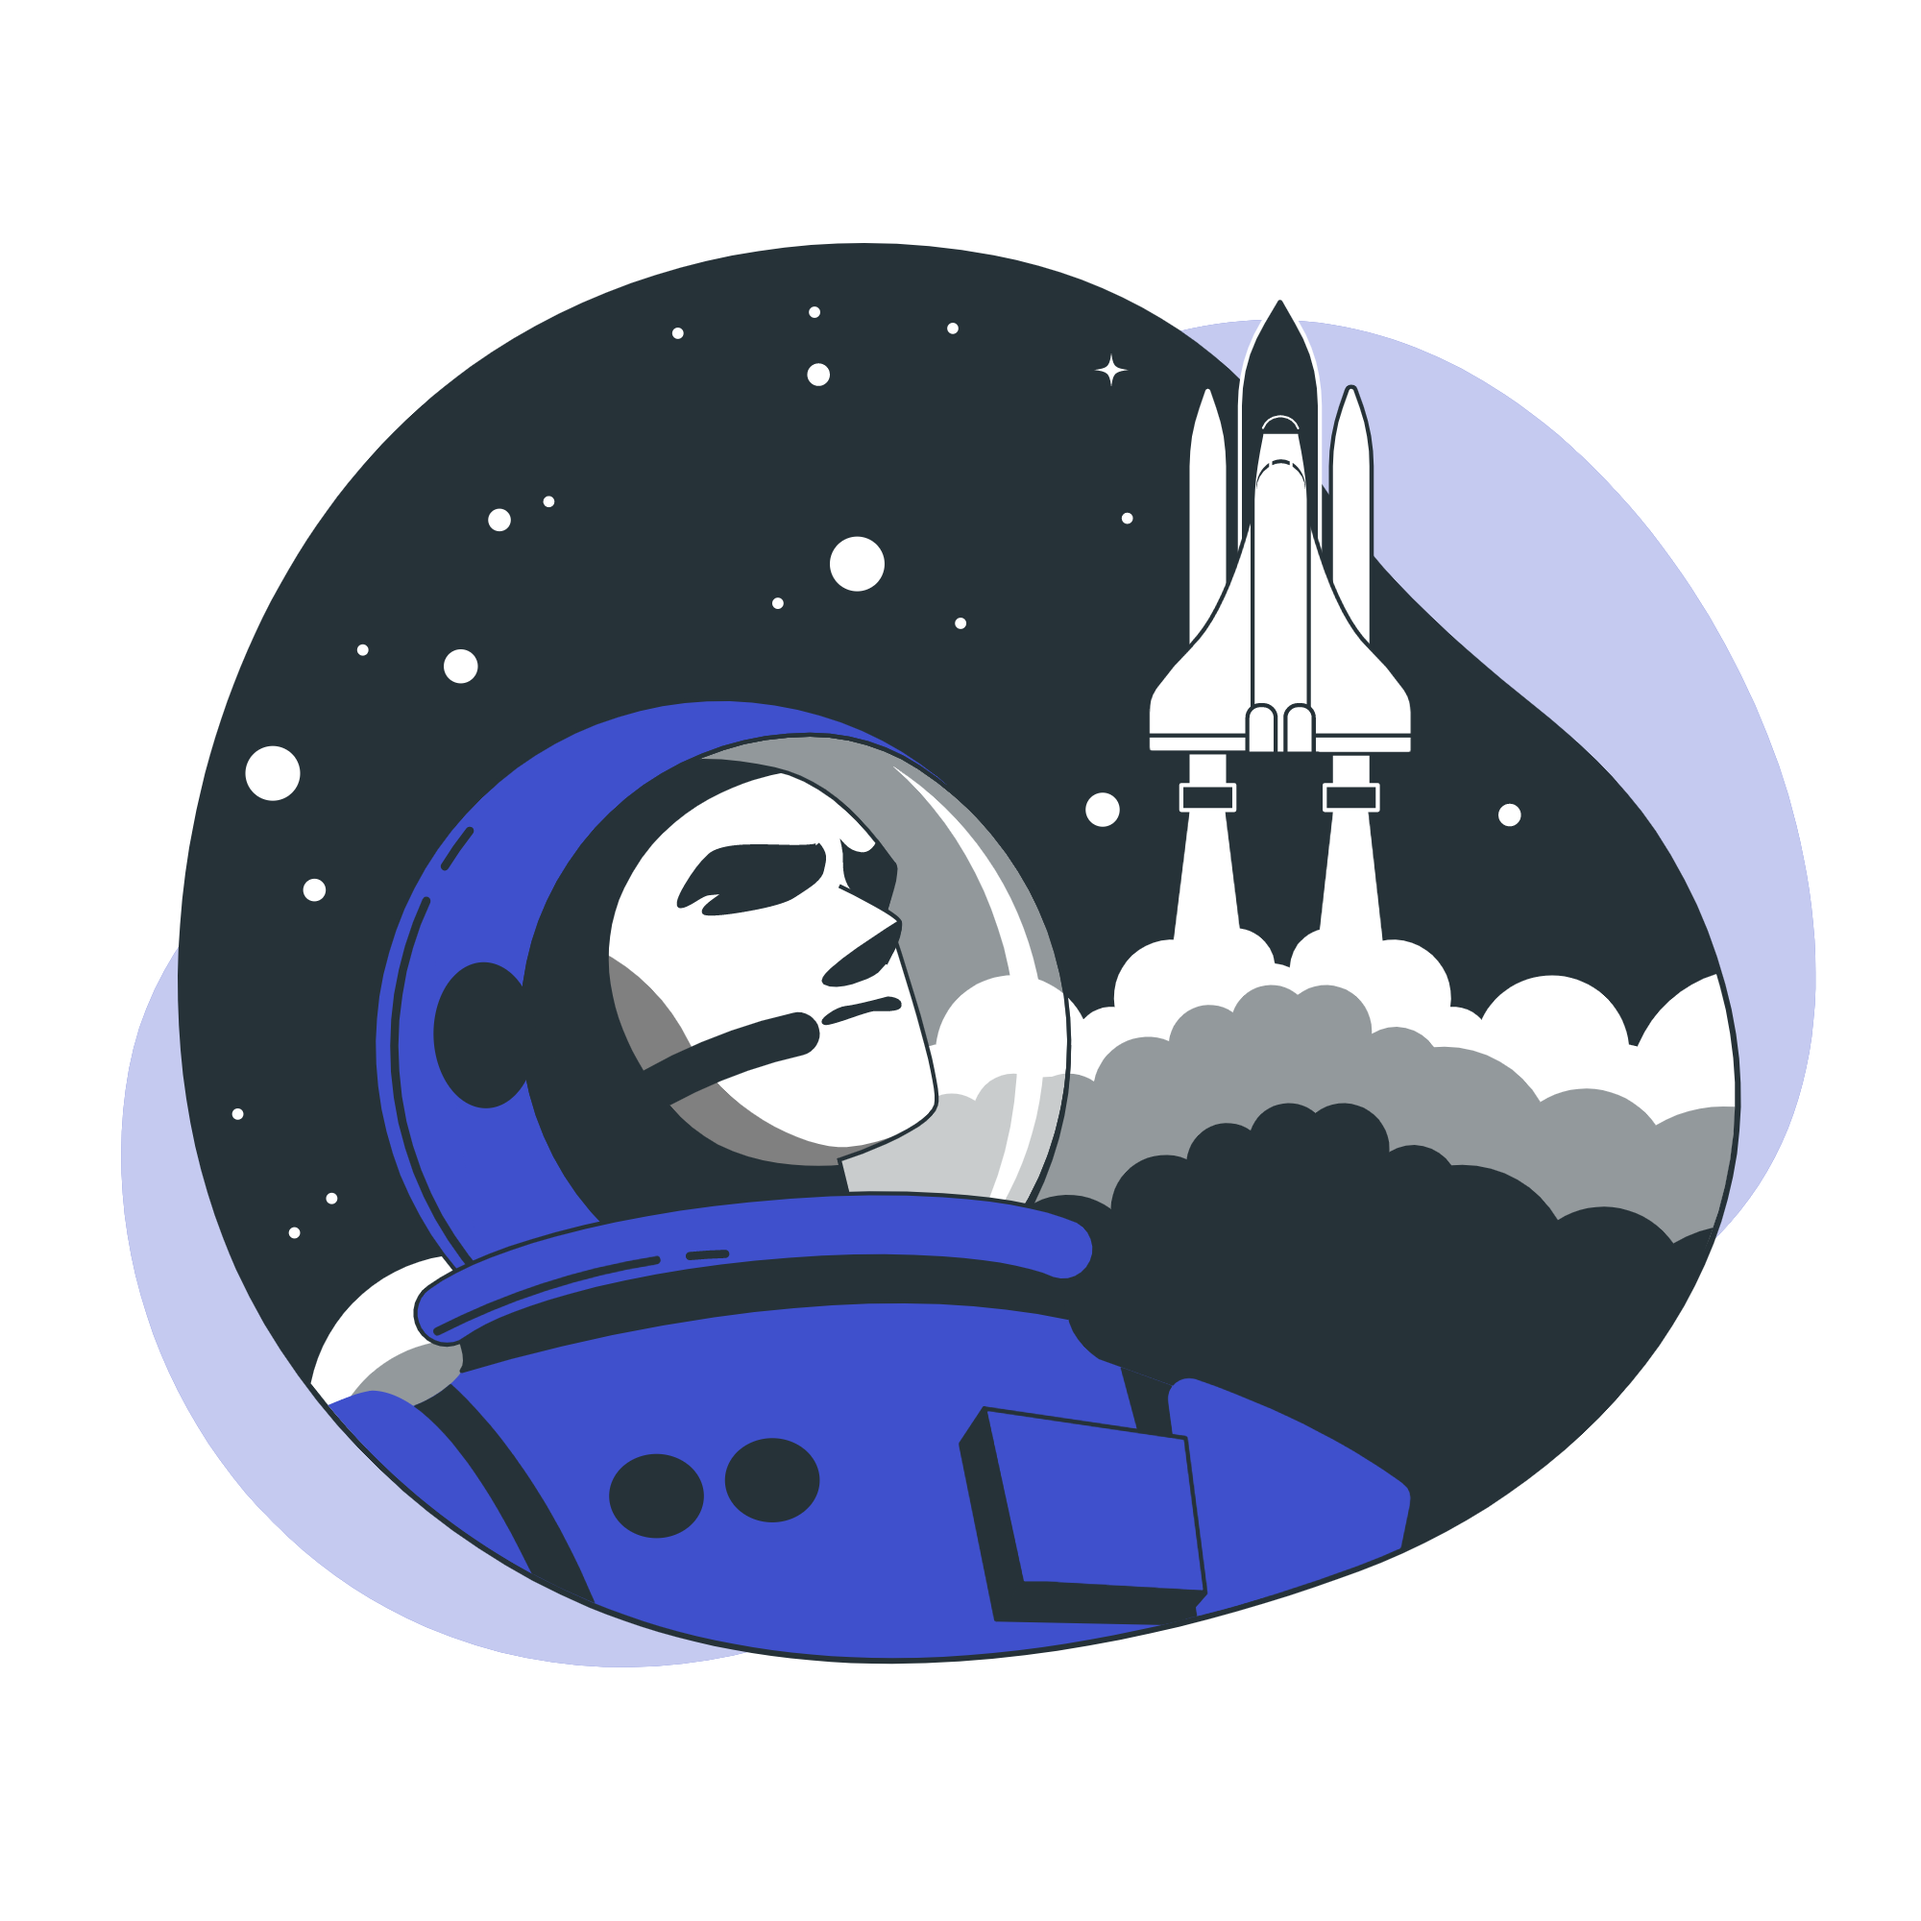
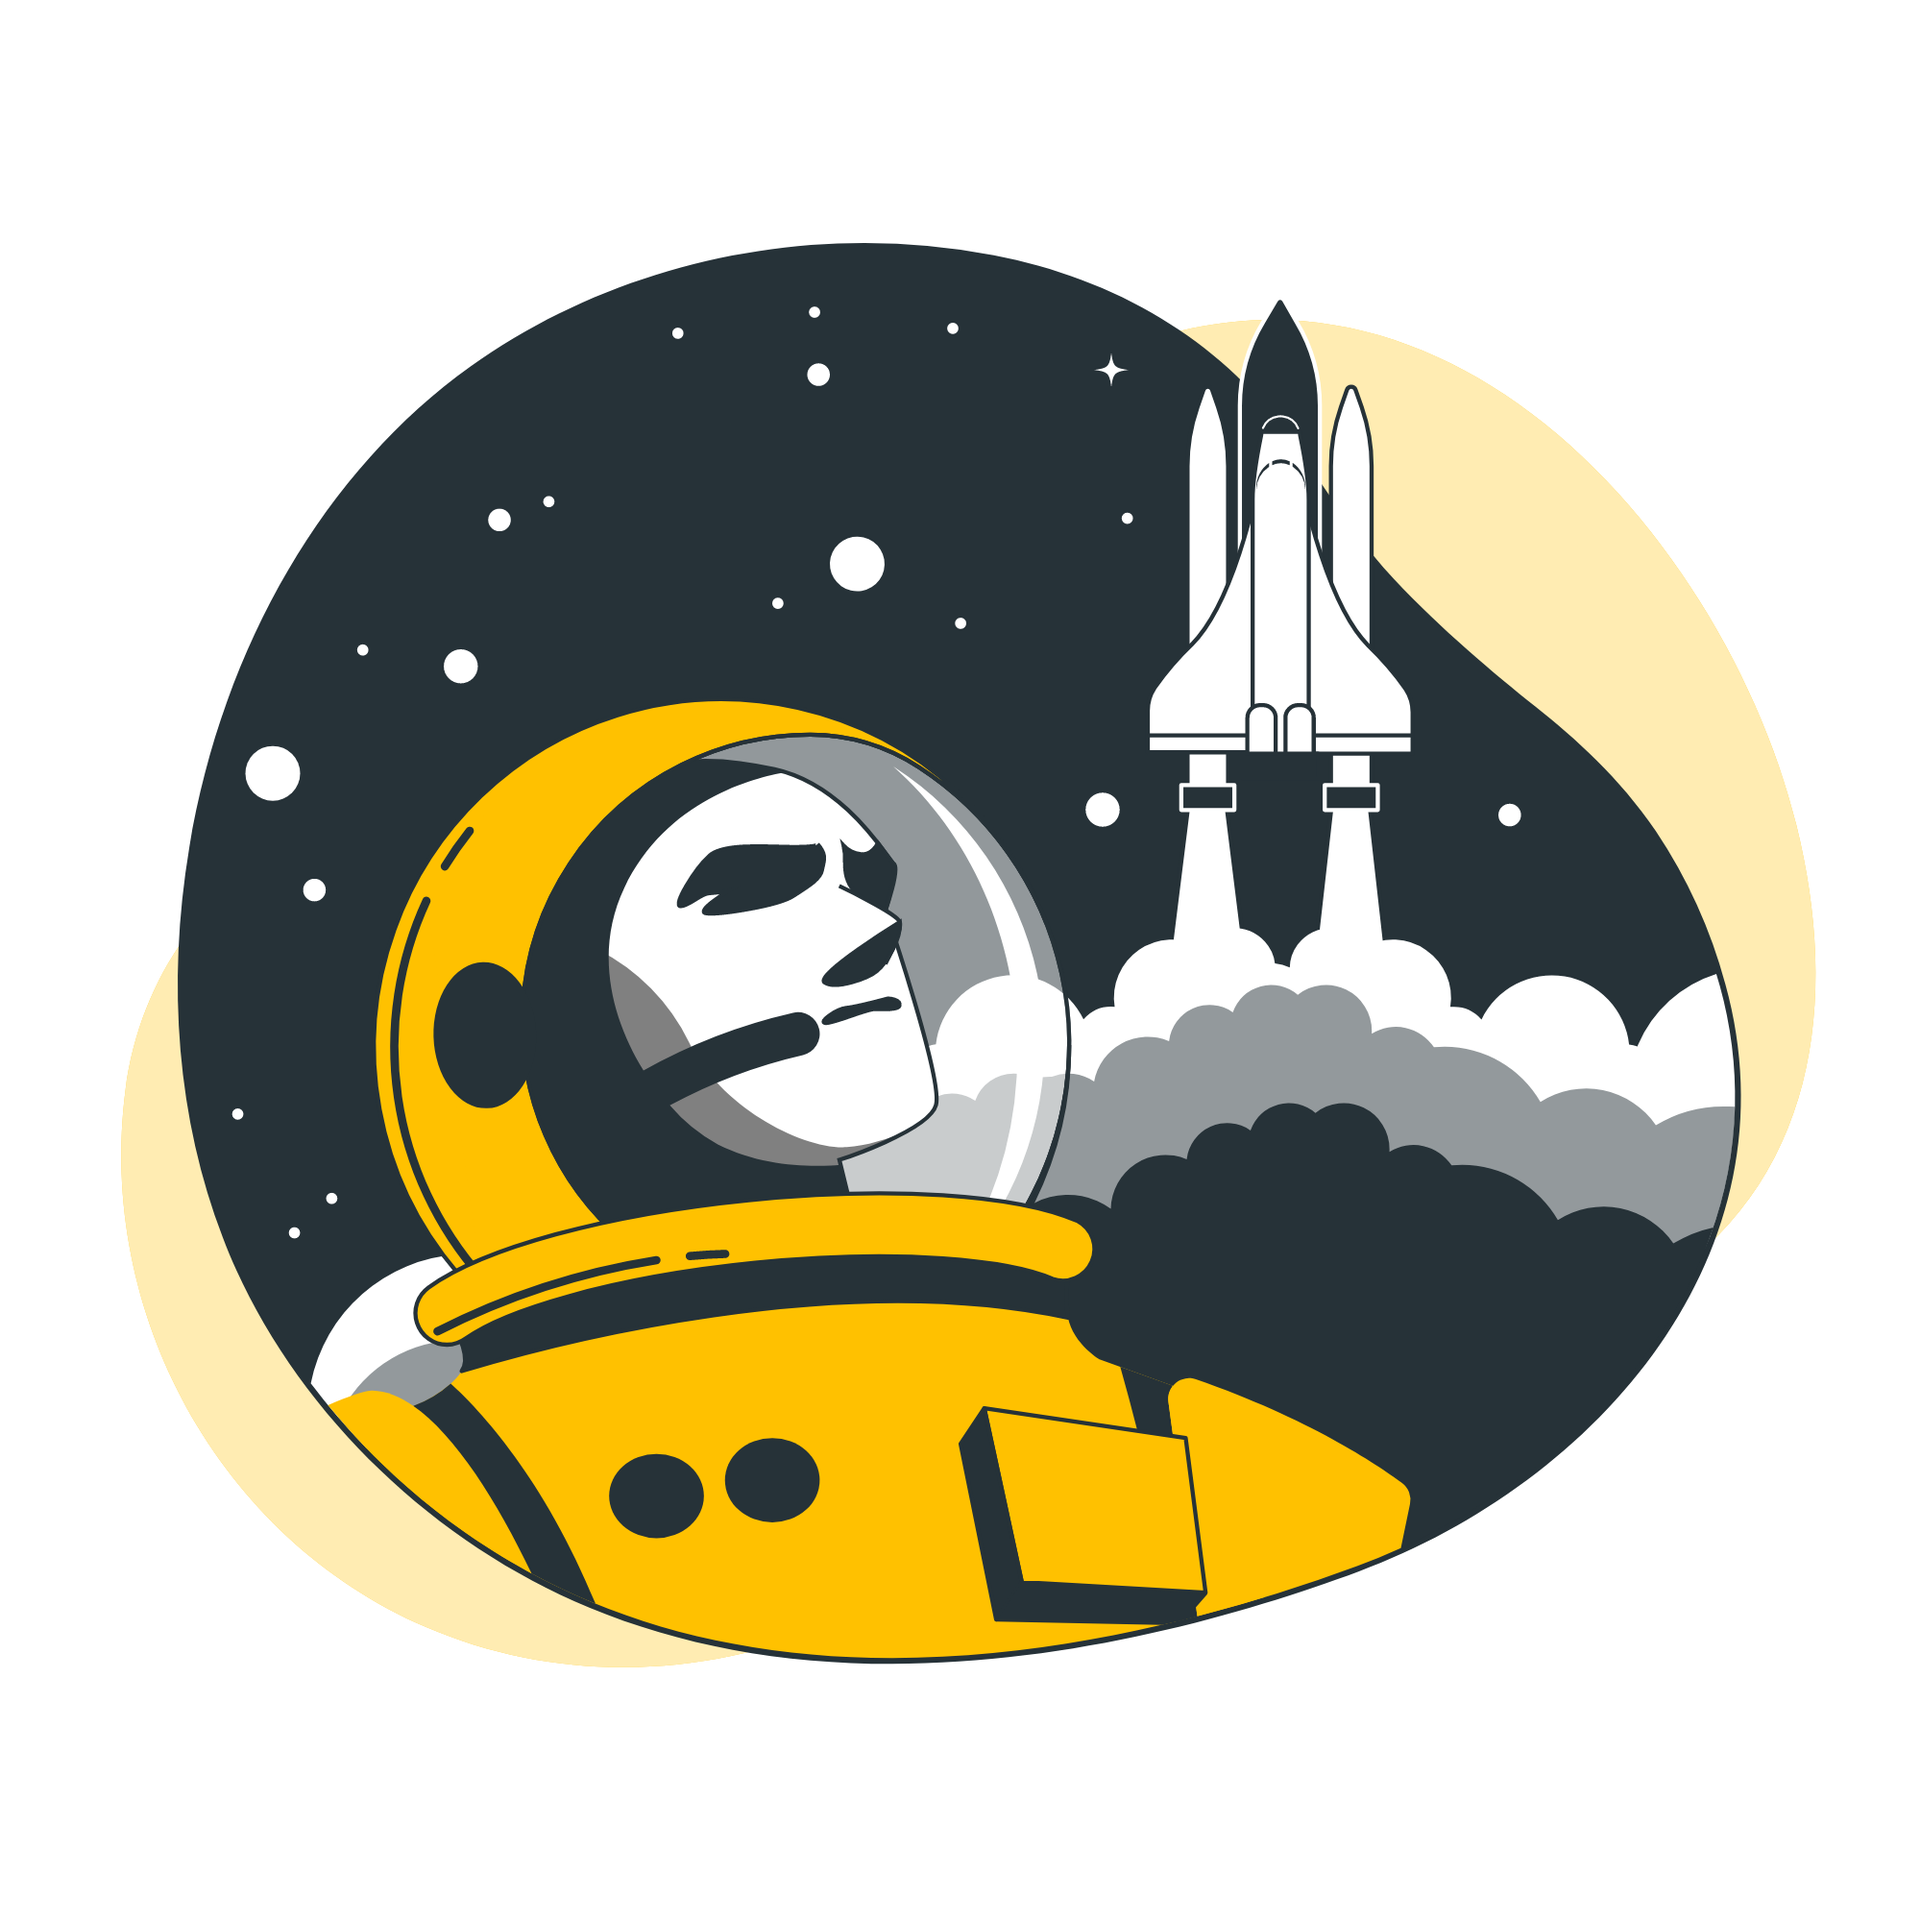
.

Changed region(s): [[0.062, 0.341, 0.744, 0.868], [0.682, 0.155, 0.961, 0.651], [0.62, 0.155, 0.651, 0.186]]

diff --git a/Portfolio/assets/css/style.css b/Portfolio/assets/css/style.css
@@ -11,10 +11,9 @@ html{
 }
 
 nav{
-    background-color: #3F50CC;
+    background-color: #000;
     width: 100%;
     position: fixed;
-    
 }
 
 nav ul{
@@ -29,10 +28,10 @@ nav ul li{
 
 nav ul li a{
     text-decoration: none;
-    color: #fff;
+    color: #FFC100;
 }
 
-header{
+header#inicio{
     display: flex;
     justify-content: center;
     align-items: center;
@@ -47,7 +46,7 @@ header div#img{
 header div p{
     font-size: 2vw;
     font-weight: 700;
-    color:#3F50CC;
+    color:#000;
 }
 
 header div span{
@@ -65,20 +64,21 @@ section#sobre-mim{
     justify-content: center;
     align-items: center;
     padding: 4rem;
-    background-color: #3F50CC;
+    background-color: #ffe084;
 }
 
 section#sobre-mim div img{
-    width: 60%;
+    width: 70%;
     border-radius: 50%;
     display: block;
     margin: auto;
 }
 
 section#sobre-mim div p{
-    font-size: 1.1vw;
+    font-size: 1.2vw;
     text-align: justify;
-    color: #fff;
+    color: #000;
+    font-weight: 700;
     line-height: 2.5rem;
 }
 
@@ -99,6 +99,11 @@ section#projetos div img{
     margin: auto;
 }
 
+section#projetos div img#projeto1{
+    width: 115%;
+    
+}
+
 section#projetos div h2{
     text-align: center;
     padding: 1rem;
@@ -113,9 +118,9 @@ section#projetos div{
 }
 
 section#projetos div button{
-    border: 1px solid #3F50CC;
-    background-color: #fff;
-    color: #3F50CC;
+    border: 1px solid #000;
+    background-color: #ffe084;
+    color: #000;
     padding: 1rem;
     font-size: .8vw;
     font-weight: 600;
@@ -128,14 +133,19 @@ section#projetos div button{
 }
 
 section#projetos div button:hover{
-    background-color: #3F50CC;
-    color: #fff;
+    background-color: #000;
+    color: #FFC100;
     transform: scale(1.2);
+}
+
+section#projetos div button a{
+    text-decoration: none;
+    color: black;
 }
 
 section#habilidades{
     padding: 3rem 10rem 3rem 10rem;
-    background-color: #d7e7ff;
+    background-color: #ffe084;
 }
 
 
@@ -153,13 +163,13 @@ section#habilidades p{
 
 section#habilidades div{
     display: flex;
-    border: 1px solid #3F50CC;
+    border: 1px solid #000;
     border-radius: 1rem;
 }
 
 section#habilidades div span#python{
-    background-color: #3F50CC;
-    color: #fff;
+    background-color: #000;
+    color: #FFC100;
     text-align: center;
     padding: .3rem;
     border-radius: 1rem;
@@ -167,21 +177,30 @@ section#habilidades div span#python{
 }
 
 section#habilidades div span#html5{
-    background-color: #3F50CC;
-    color: #fff;
+    background-color: #000;
+    color: #FFC100;
     text-align: center;
     padding: .3rem;
     border-radius: 1rem;
-    width: 40%;
+    width: 60%;
 }
 
 section#habilidades div span#css{
-    background-color: #3F50CC;
-    color: #fff;
+    background-color: #000;
+    color: #FFC100;
     text-align: center;
     padding: .3rem;
     border-radius: 1rem;
-    width: 20%;
+    width: 35%;
+}
+
+section#habilidades div span#js{
+    background-color: #000;
+    color: #FFC100;
+    text-align: center;
+    padding: .3rem;
+    border-radius: 1rem;
+    width: 15%;
 }
 
 section#contato{
@@ -198,7 +217,7 @@ section#contato div#redes{
 section#contato div#redes h3{
     text-align: center;
     font-size: 2.5rem;
-    margin-bottom: 2rem;
+    margin-bottom: 1rem;
 }
 
 section#contato div#redes div#icons{
@@ -208,14 +227,14 @@ section#contato div#redes div#icons{
 
 section#contato div#redes div#icons a{
     text-decoration: none;
-    color: #3F50CC;
+    color: #000;
     font-size: 4rem;
     padding: 2rem;
     transition: all .4s ease-out;
 }
 
 section#contato div#redes div#icons a:hover{
-    color: #71aaff;
+    color: #FFC100;
 }
 
 section#contato div#redes div#icons a i{
@@ -237,6 +256,7 @@ section#contato div#form h3{
     text-align: center;
     font-size: 2.5rem;
     margin-bottom: 2rem;
+    margin-top: 2rem;
 }
 
 section#contato div#form form{
@@ -258,9 +278,9 @@ section#contato div#form form label{
 }
 
 section#contato div#form form button{
-    border: 1px solid #3F50CC;
-    background-color: #fff;
-    color: #3F50CC;
+    border: 1px solid #000;
+    background-color: #FFC100;
+    color: #000;
     padding: 1rem;
     font-size: .8vw;
     font-weight: 600;
@@ -273,7 +293,7 @@ section#contato div#form form button{
 }
 
 section#contato div#form form button:hover{
-    background-color: #3F50CC;
-    color: #fff;
+    background-color: #000;
+    color: #FFC100;
     transform: scale(1.2);
 }

diff --git a/Portfolio/index.html b/Portfolio/index.html
@@ -56,12 +56,10 @@
 
     <section id="projetos">
         <div>
-            <img src="./assets/images/picsum.png" alt="">
-            <h2>Projeto 1</h2>
-            <p>Lorem ipsum dolor sit amet consectetur adipisicing elit. Recusandae eaque sint ipsam obcaecati commodi
-                nemo maxime iusto quae est esse earum quis culpa nobis, ea dicta deleniti corrupti praesentium
-                explicabo?</p>
-            <button>Veja mais</button>
+            <img id='projeto1' src="./assets/images/projeto1.png" alt="Personagens Divertida mente">
+            <h2>Jogo do Humor: Inside Out</h2>
+            <p>Um página onde muda o humor da personagem principal do filme "Divertida mente".</p>
+            <button><a href='https://danmachinez.github.io/jogoDoHumor/'target='_blank'>Veja mais</button></a>
         </div>
 
         <div>
@@ -98,17 +96,22 @@
 
         <p>Python</p>
         <div>
-            <span id="python">70%</span>
+            <span id="python">80%</span>
         </div>
 
         <p>HTML 5</p>
         <div>
-            <span id="html5">40%</span>
+            <span id="html5">60%</span>
         </div>
 
         <p>CSS</p>
         <div>
-            <span id="css">20%</span>
+            <span id="css">35%</span>
+        </div>
+
+        <p>Javascript</p>
+        <div>
+            <span id="js">15%</span>
         </div>
 
     </section>
